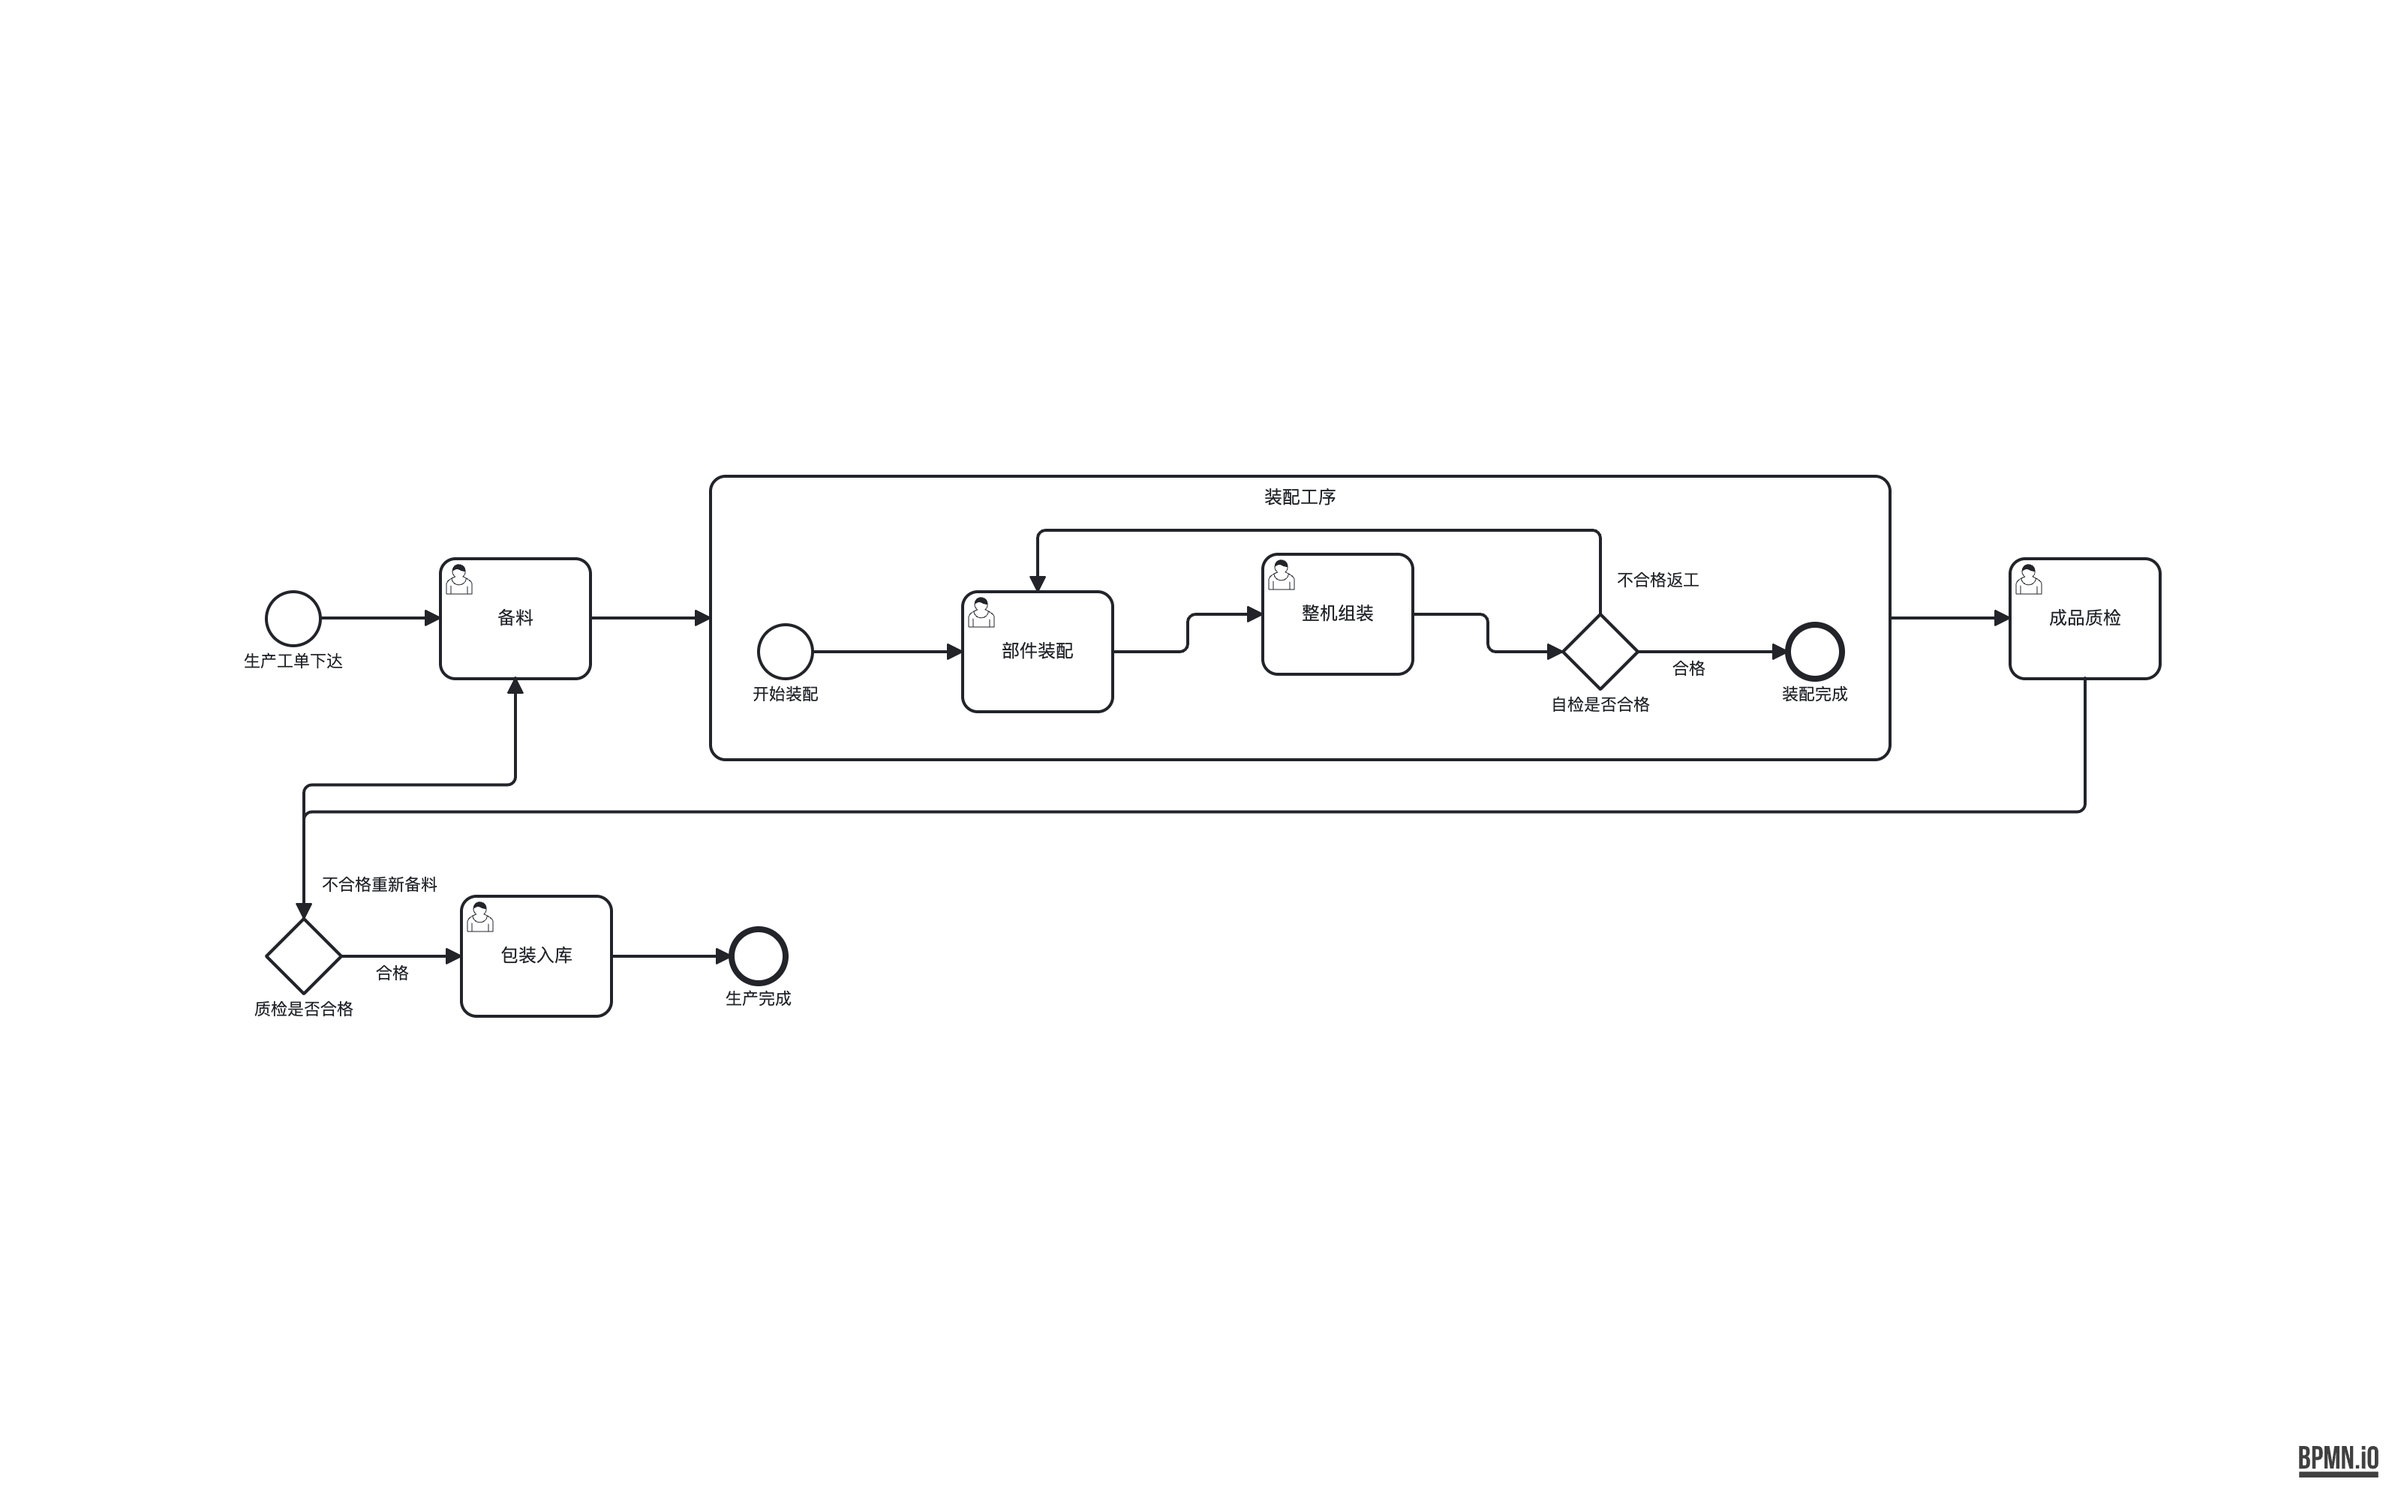
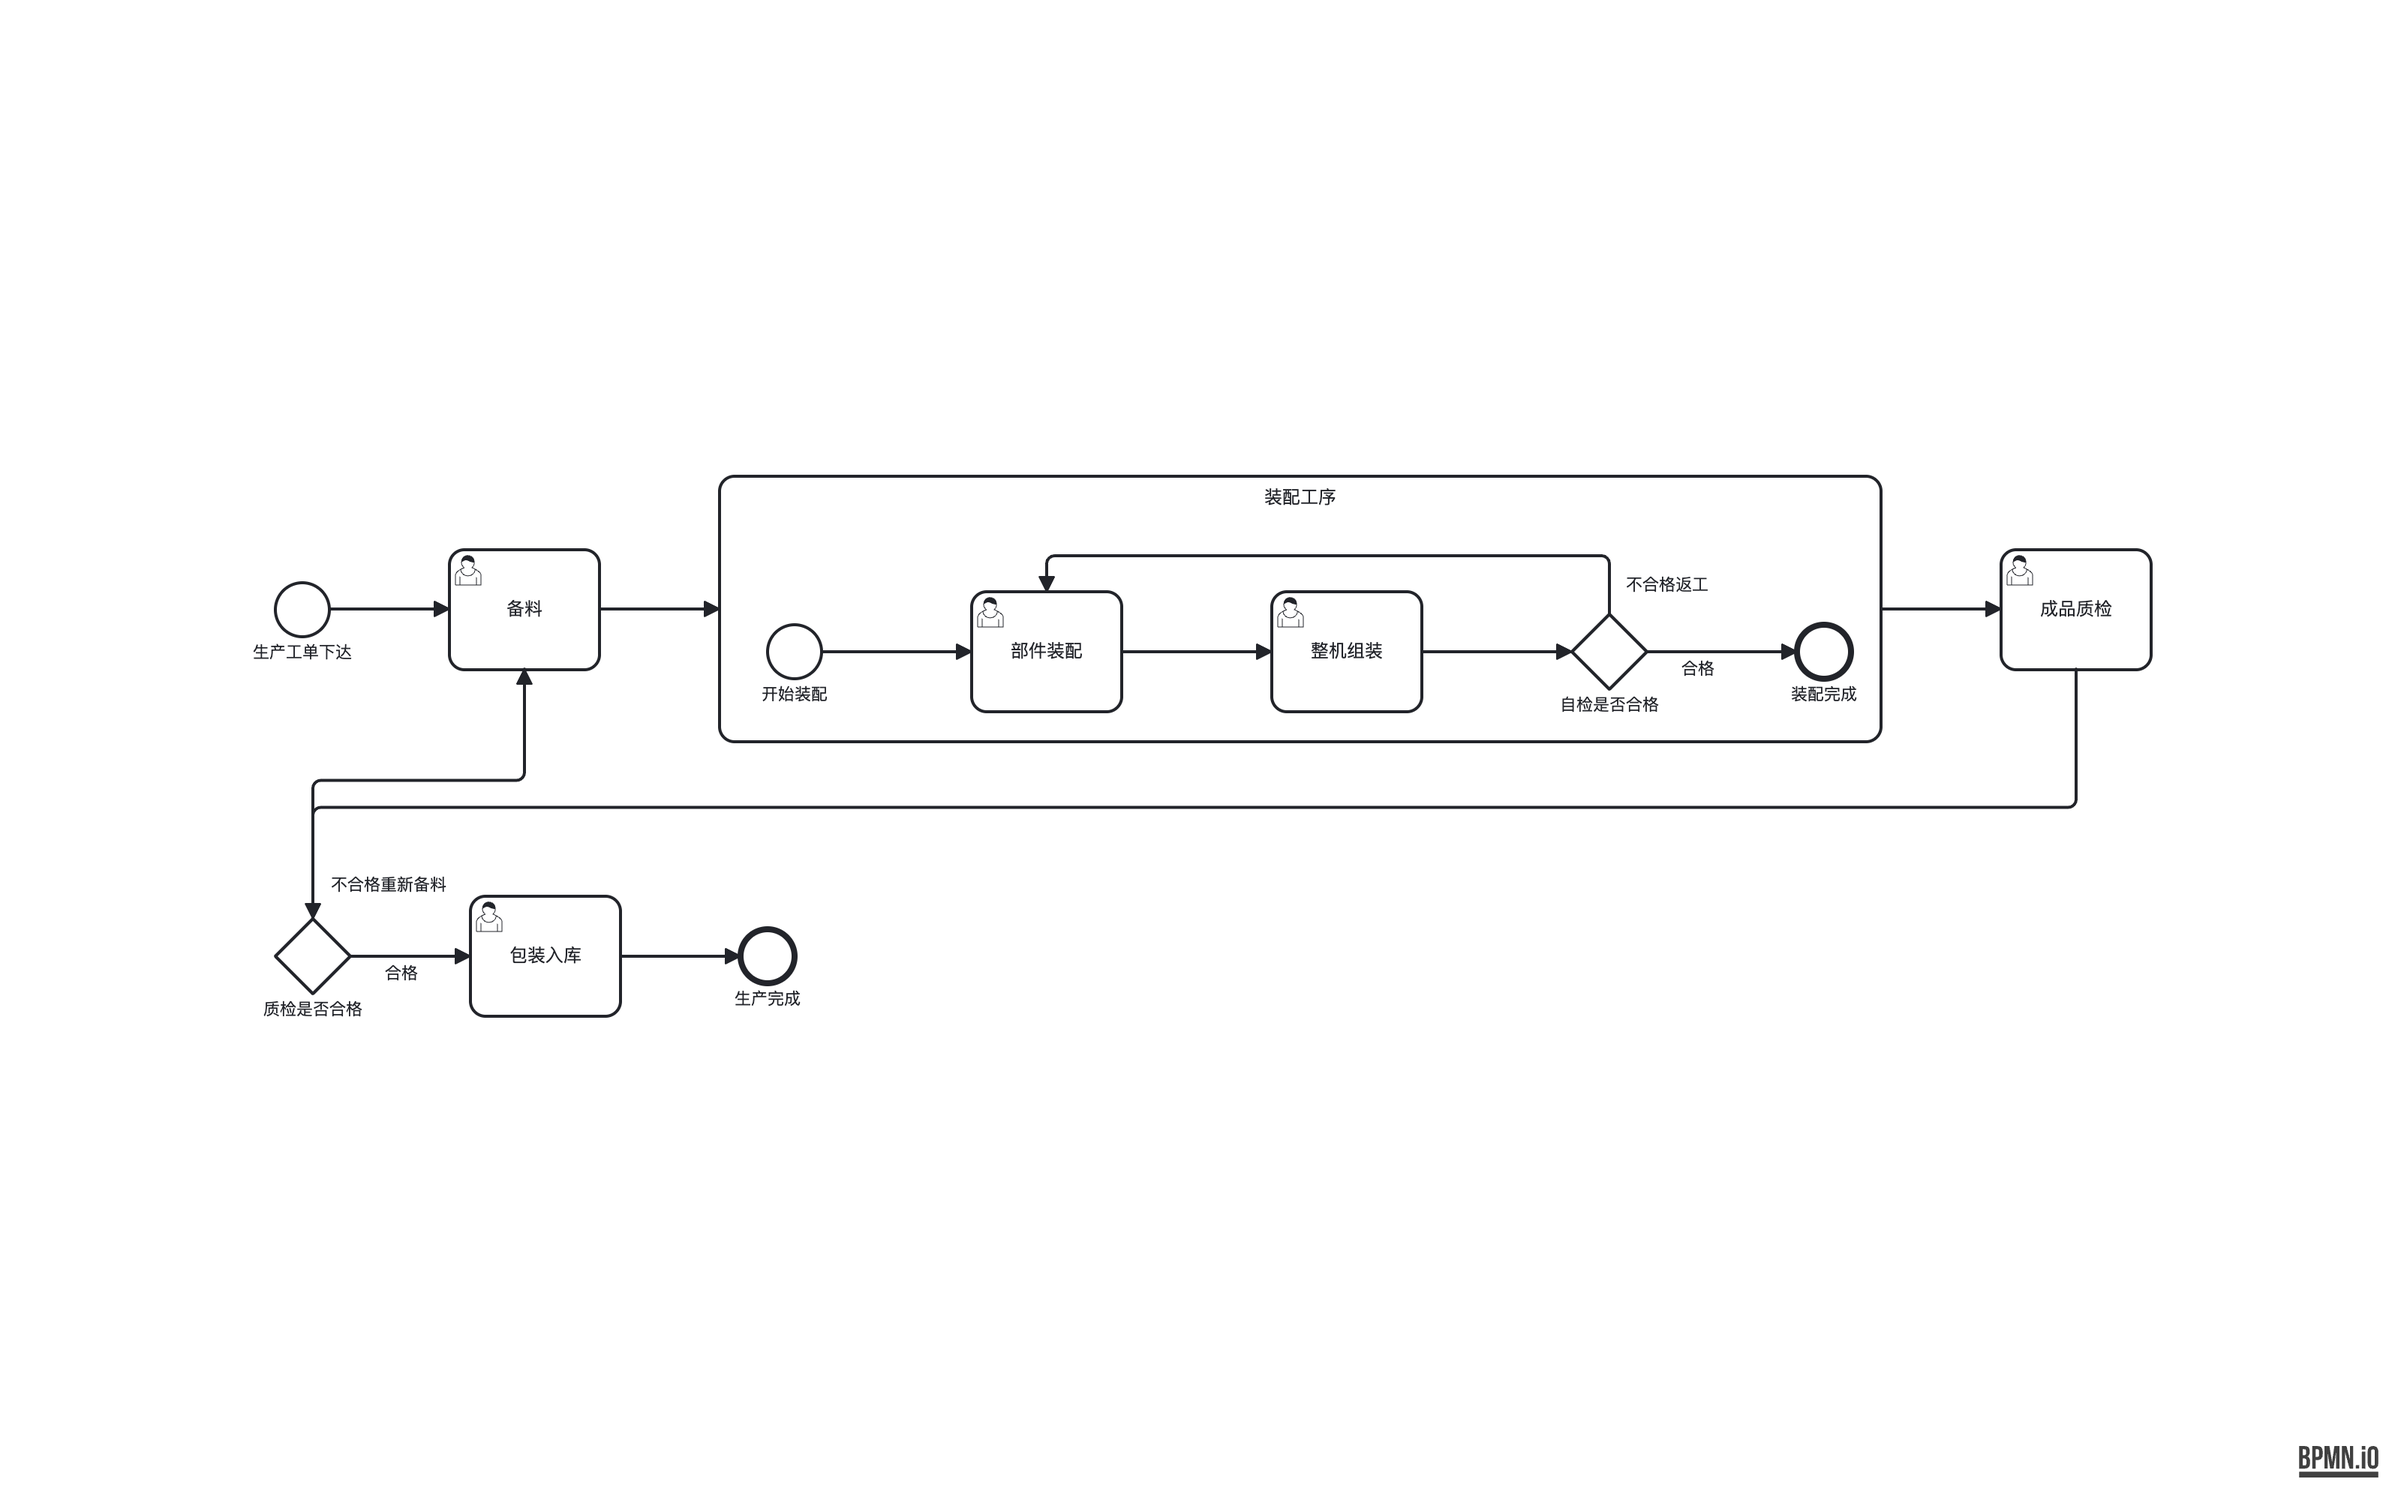
feat(subprocess-layout): 子流程内纯链 Y 中线 snap——75/100 的 F14 归 0
ELK 在带回边的内链上会把节点摆成 ±25px 错层（回边拉拽分层），相邻链边各吃
一个 2 弯 Z。剔语义回边后纯链全员 snap 到中位 cy（X 保持 ELK 序，回边反正走
顶部拱线）；bounds 按 snap 后重算。守卫：有 BE host 的子流程不动（净空关系
不折腾），非纯链不动。

F14 100/75 4→0，F11 各降一半；代价 100 F13 +0.02（信息指标）。PNG 目检：
内链一条直线，回边拱顶。

diff --git a/src/stages/subprocess-layout.ts b/src/stages/subprocess-layout.ts
@@ -11,6 +11,7 @@
 import type { ProcessUnit } from '../loader/types.ts';
 import { layoutHeightWithIoSpec, nodeSizeOf } from '../layout/node-sizes.ts';
 import { resolveBackEdgesForElk } from './back-edge-resolver.ts';
+import { linearOrder } from './compactor.ts';
 import { elkPlacement } from './elk-placement.ts';
 import type { NodeBox } from './types.ts';
 
@@ -95,11 +96,48 @@ export async function collectSubprocessLayouts(
       edges: elkEdges,
     });
 
+    // 纯链内部图的 Y 抖动归零：ELK 在带回边的链上会把节点摆成 ±25px 错层（回边拉拽），
+    // 相邻链边各吃一个 2 弯 Z（75/100 的 F14）。纯链 snap 到中位 cy，X 保持 ELK 序——
+    // 回边反正走顶部拱线，与链节点 Y 无关。非纯链（分叉/多入口）不动。
+    const snapped = snapPureChainRows(placement.nodes, innerFlows, sub.flowNodes);
+    const finalNodes = snapped?.nodes ?? placement.nodes;
+
     out.set(sub.id, {
       id: sub.id,
-      innerNodes: placement.nodes,
+      innerNodes: finalNodes,
       innerEdgeIds: sub.sequenceFlows.map(sf => sf.id),
-      bounds: placement.bounds,
+      bounds: snapped ? recomputeBounds(finalNodes) : placement.bounds,
     });
   }
+}
+
+/** 内部图为纯链（剔语义回边后 in/out ≤1 且全覆盖）时，全员 cy snap 到中位数。返回 null = 不动。 */
+function snapPureChainRows(
+  nodes: Map<string, NodeBox>,
+  flows: { id: string; source: string; target: string }[],
+  flowNodes: ProcessUnit['flowNodes'],
+): { nodes: Map<string, NodeBox> } | null {
+  if (flowNodes.some(fn => fn.boundaryEventIds.length > 0)) return null; // BE host 的净空关系不折腾
+  const backIds = resolveBackEdgesForElk(flowNodes, flows).reversedIds;
+  const order = linearOrder(nodes, flows.map(f => ({ id: f.id, source: f.source, target: f.target })), backIds);
+  if (!order) return null;
+  const cys = order.map(id => nodes.get(id)!.y + nodes.get(id)!.h / 2).sort((a, b) => a - b);
+  const medianCy = cys[Math.floor(cys.length / 2)]!;
+  const out = new Map<string, NodeBox>();
+  let moved = false;
+  for (const [id, b] of nodes) {
+    const cy = b.y + b.h / 2;
+    if (Math.abs(cy - medianCy) > 0.5) moved = true;
+    out.set(id, { ...b, y: medianCy - b.h / 2 });
+  }
+  return moved ? { nodes: out } : null;
+}
+
+function recomputeBounds(nodes: Map<string, NodeBox>): { width: number; height: number } {
+  let maxX = 0, maxY = 0;
+  for (const b of nodes.values()) {
+    maxX = Math.max(maxX, b.x + b.w);
+    maxY = Math.max(maxY, b.y + b.h);
+  }
+  return { width: maxX, height: maxY };
 }

diff --git a/src/stages/compactor.ts b/src/stages/compactor.ts
@@ -282,7 +282,7 @@ function wrapLongLinearChain(
   return out;
 }
 
-function linearOrder(
+export function linearOrder(
   nodes: Map<string, NodeBox>,
   edges: Array<{ source: string; target: string; id?: string }>,
   backEdgeIds?: ReadonlySet<string>,
